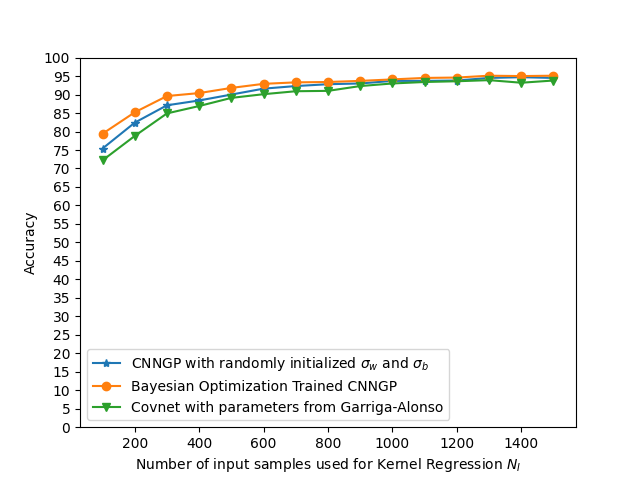
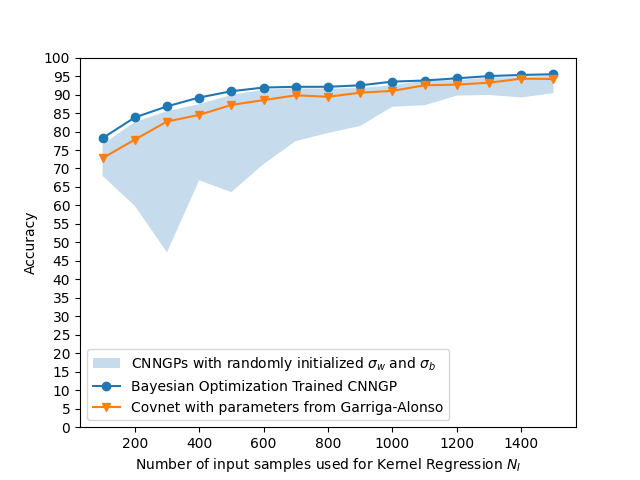
Updated bayesian optimization experiment to show band of accuracies for randomly initialized kernels

Changed region(s): [[0.1562, 0.125, 0.875, 0.5312], [0.2812, 0.75, 0.6875, 0.7812], [0.125, 0.7188, 0.1875, 0.875]]

diff --git a/exp_kf_cnngp/kernel_flow_bayesian_optimization.py b/exp_kf_cnngp/kernel_flow_bayesian_optimization.py
@@ -7,11 +7,11 @@ import absl.app
 import sys
 import os
 from skopt.plots import plot_convergence
-    
+import time
 sys.path.insert(0, os.getcwd() + '/.')
 
 from utils import get_dataset, get_label_from_probability
-from KernelFlow import KernelFlowsTorch
+from KernelFlow.Torch.KF_parametric_catagorical_torch import KernelFlowsTorch
 from configs import kernel_flow_configs
 
 FLAGS = absl.app.flags.FLAGS
@@ -20,31 +20,50 @@ DEVICE = torch.device('cuda' if torch.cuda.is_available() else 'cpu')
 
 def main(_):
     X_train, Y_train, X_test, Y_test = get_dataset(dataset=FLAGS.dataset, train_size=50000, val_size=1000, device=DEVICE)
-    cnn_gp = kernel_flow_configs.get_CNNGP(model_name = FLAGS.CNNGP_model, device=DEVICE)
 
     N_i_arr = np.arange(100, 1600, 100)
-    rand_acc = []
 
+    rand_acc_matrix = []
     # Getting accuracy for randomly initialized CNNGP
-    for N_i in tqdm(N_i_arr):
-        Y_predictions_rand_cnngp = KernelFlowsTorch.kernel_regression(X_test=X_test, X_train=X_train[:N_i], 
-                                                                                    Y_train=Y_train[:N_i], kernel=cnn_gp, 
-                                                                                    regularization_lambda=0.0001, blocksize=250, 
-                                                                                    device=DEVICE)
+    if FLAGS.CNNGP_model == 'alonso_etal_covnet': 
+        rand_acc = []
+        for N_i in tqdm(N_i_arr):
+            Y_predictions_rand_cnngp = KernelFlowsTorch.kernel_regression(X_test=X_test, X_train=X_train[:N_i], 
+                                                                                        Y_train=Y_train[:N_i], kernel=cnn_gp, 
+                                                                                        regularization_lambda=0.0001, blocksize=250, 
+                                                                                        device=DEVICE)
 
-        Y_predictions_rand_cnngp_labels = get_label_from_probability(Y_predictions_rand_cnngp)
-        rand_acc.append(accuracy_score(Y_predictions_rand_cnngp_labels, Y_test.cpu().numpy()) * 100)
+            Y_predictions_rand_cnngp_labels = get_label_from_probability(Y_predictions_rand_cnngp)
+            rand_acc.append(accuracy_score(Y_predictions_rand_cnngp_labels, Y_test.cpu().numpy()) * 100)
 
-    plt.plot(rand_acc)
-    plt.ylim((0,100))
-    plt.show()
+    else:
+        for i in range(5):
+            cnn_gp = kernel_flow_configs.get_CNNGP(model_name = FLAGS.CNNGP_model, device=DEVICE)
+            rand_acc = []
+            for N_i in tqdm(N_i_arr):
+                Y_predictions_rand_cnngp = KernelFlowsTorch.kernel_regression(X_test=X_test, X_train=X_train[:N_i], 
+                                                                                            Y_train=Y_train[:N_i], kernel=cnn_gp, 
+                                                                                            regularization_lambda=0.0001, blocksize=250, 
+                                                                                            device=DEVICE)
+
+                Y_predictions_rand_cnngp_labels = get_label_from_probability(Y_predictions_rand_cnngp)
+                rand_acc.append(accuracy_score(Y_predictions_rand_cnngp_labels, Y_test.cpu().numpy()) * 100)
+            rand_acc_matrix.append(np.array(rand_acc))
+
+        rand_acc_matrix = np.array(rand_acc_matrix)
+        rand_min = rand_acc_matrix.min(axis=0)
+        rand_max = rand_acc_matrix.max(axis=0)
+    # plt.show()
       
     # Training with Bayesian Optimization
     parameter_bounds = [(1e-3, 200.0), (0.0, 200.0)]
     KF_BO = KernelFlowsTorch(cnn_gp, device=DEVICE, regularization_lambda=1e-4)
-    res = KF_BO.fit(X_train, Y_train, iterations=30, batch_size=1200, 
+    start = time.time()
+    res = KF_BO.fit(X_train, Y_train, iterations=50, batch_size=1200, 
                     sample_proportion=0.5, parameter_bounds_BO=parameter_bounds, 
                     random_starts=15, method='bayesian optimization')
+    stop = time.time()
+    print(f"""Bayesian Optimization took {stop - start} seconds to fit for 50 iterations. One iteration took on average {50 / (stop - start)} seconds""")
 
     fig, ax = plt.subplots(1,1)
     plot_convergence(res, ax=ax)
@@ -65,8 +84,10 @@ def main(_):
     if FLAGS.CNNGP_model == 'alonso_etal_covnet':
         ax.plot(N_i_arr, rand_acc, '-*', label='Covnet with parameters from Garriga-Alonso')
     else:
-        ax.plot(N_i_arr, rand_acc, '-*', label='CNNGP with randomly initialized $\sigma_w$ and $\sigma_b$')
+        # ax.plot(N_i_arr, rand_acc, '-*', label='CNNGP with randomly initialized $\sigma_w$ and $\sigma_b$')
+        ax.fill_between(N_i_arr, rand_min, rand_max, alpha=0.25, label='CNNGPs with randomly initialized $\sigma_w$ and $\sigma_b$')
         
+
     ax.plot(N_i_arr, bo_acc, '-o', label='Bayesian Optimization Trained CNNGP')
 
     # If experiment is done with covnet then the covnet model in Alonso et al is also compared
@@ -93,7 +114,7 @@ def main(_):
 if __name__ == '__main__':
     f = absl.app.flags
     f.DEFINE_string("CNNGP_model", "covnet",
-                    "which CNNGP model to test on")
+                    "which CNNGP model to test on. For random covnet use covnet. For Covnet from Alonso et al use alonso_etal_covnet. For simple model use simple.")
     f.DEFINE_string("dataset", "mnist",
                 "which dataset to work with")
     absl.app.run(main)

diff --git a/KernelFlow/__init__.py b/KernelFlow/__init__.py
@@ -2,5 +2,8 @@ from .Parametric.Frechet.KF_parametric_categorical import *
 from .Torch.KF_parametric_catagorical_torch import *
 from .Non_Parametric.Frechet.KF_NP_frechet import *
 from .Non_Parametric.Autograd.KF_NP_autograd import *
-from .JAX.KF_non_parametric_JAX import *
+try:
+    from .JAX.KF_non_parametric_JAX import *
+except:
+    warnings.warn("Could not import jax. Please install. Remaining modules are imported.")
 from .Non_Parametric.Frechet.kernel_functions import *
